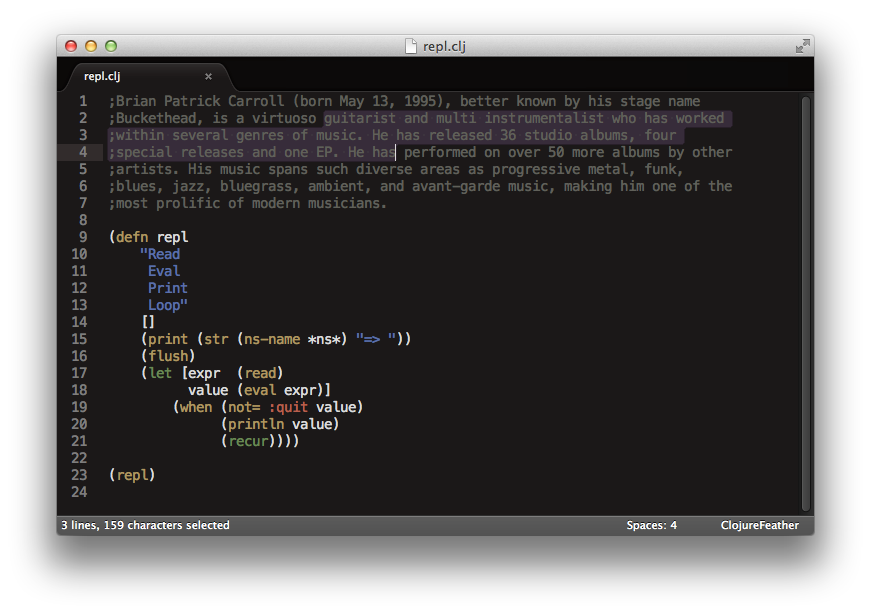
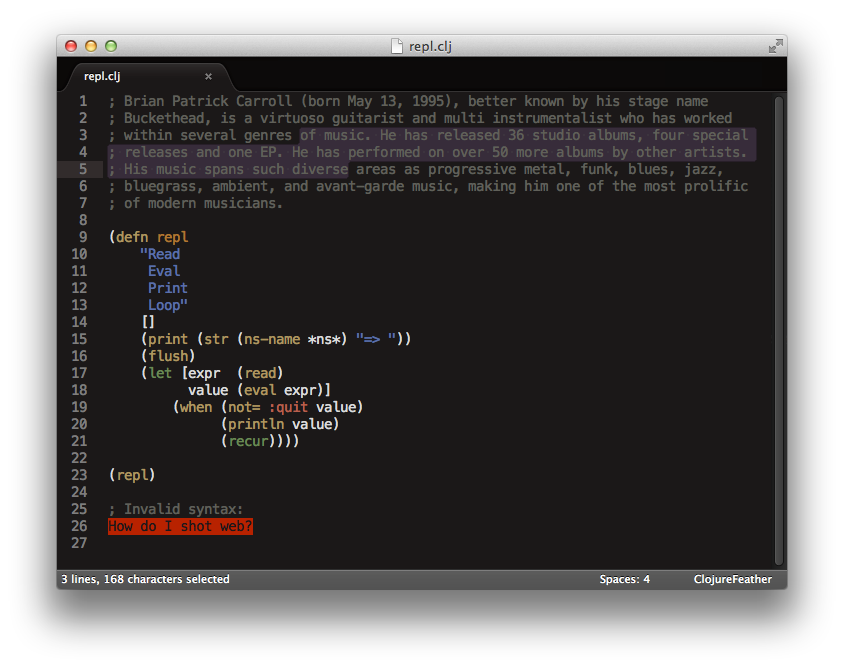
Updated colours for entity and invalid scopes. Updated README. Updated screenshot to show all colours.

Changed region(s): [[0.0616, 0.0309, 0.955, 0.8974]]

diff --git a/README.md b/README.md
@@ -4,14 +4,14 @@ look too "glowing neon".
 
 It has a simple definition that colours the following generic scopes:
 
-* keyword
-* storage
-* support
-* string
-* comment
-* constant
-* entity
-* invalid
+* keyword   (green)
+* storage   (orange)
+* support   (gold)
+* string    (blue)
+* comment   (grey)
+* constant  (red)
+* entity    (orange)
+* invalid   (framed in red)
 
 There are currently no language-specific specialisations. If you would like to
 propose some, you are welcome to send a GitHub pull request.
